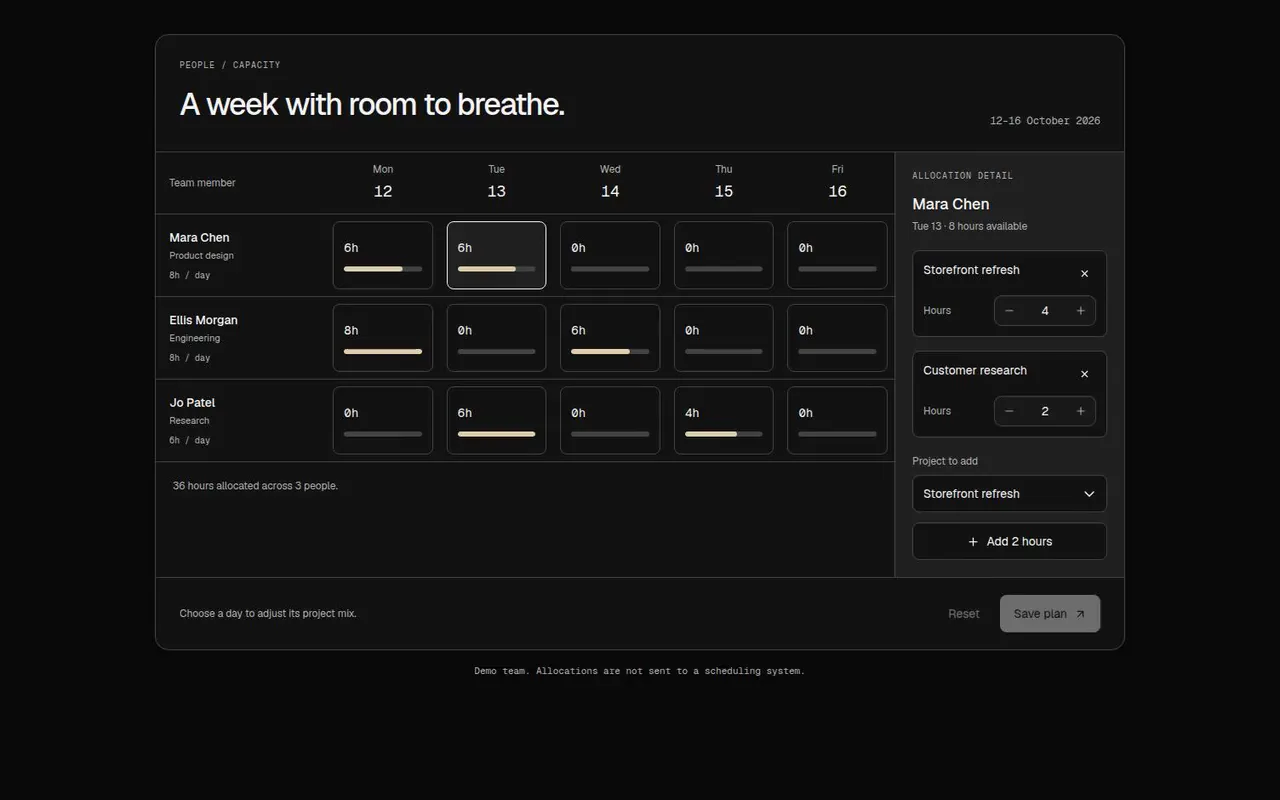
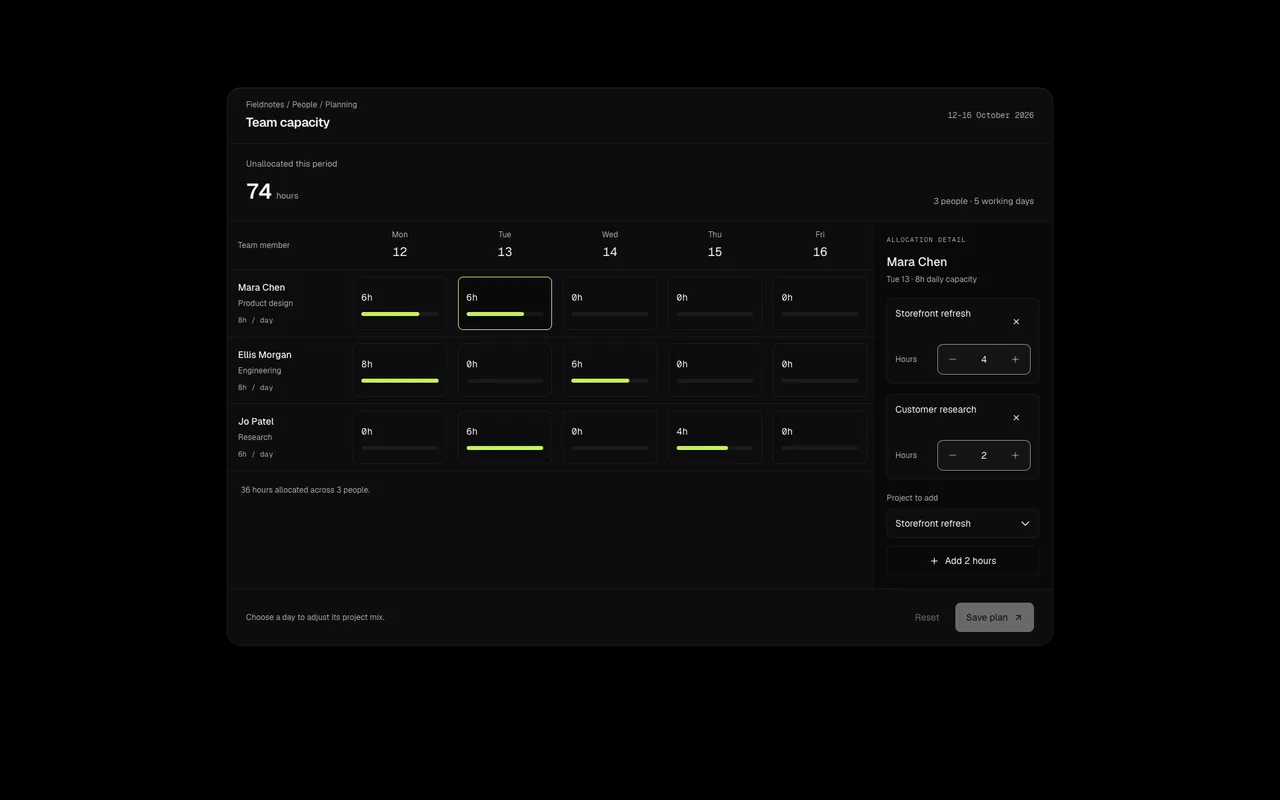
Verify the rebuilt capacity workflow and preview

diff --git a/docs/review/HANDOFF_TASKS.md b/docs/review/HANDOFF_TASKS.md
@@ -255,6 +255,8 @@ and how to know it's done. Pick any of them up independently. Background, briefs
 
 - Task 1: Version History now has a reviewed 4.3s film showing the first revision’s redline, explicit restore confirmation and the settled new Revision 4 with a restored Revision 1 receipt. Complete framing matches the paired opening poster. Maximum source gap is 12ms, changed-source delivery is 80.4ms and moving-frame p95 is 19.1ms, with no stalls and all guards retained. 120 listed films remain.
 
+- Task 7: Capacity Planner is rebuilt around a weekly load ledger and a quarter-hour allocation inspector. Its 35-mount source review and rewritten Next regression cover exact saved snapshots, keyboard stepping, over-capacity checks, retained retry, pending locks, callback mutation, accepted host echoes and retired replacements. Two preserved failures are fixed: the pending calendar remains keyboard-scrollable, and acknowledged decimal formatting leaves a clean baseline. Six widths, 24 state/default accessibility audits, entrance/state captures, three controls, official audit, both demo runners and measured 1,200px replay/poster pass. The first demo cleared its receipt by inspecting after saving; the corrected replay saves last. Strict registry, TypeScript and all 1,063 unit tests pass. Its film joins task 1; 30 components and 12 blocks remain in task 7.
+
 ## Ground rules (read first)
 
 - Two repos. Public: `richawo/Design-components-for-AI-agents` (this one). Pro: `richawo/Design-for-AI`, private, cloned
@@ -272,7 +274,7 @@ and how to know it's done. Pick any of them up independently. Background, briefs
 - Browser checks: `node scripts/check-component.mjs <slug> --base=http://localhost:3100 --no-video --keep-going`
   (screenshots at 1440/768/390 and every control flip; read the screenshots it writes to `test-results/check/<slug>/`).
 
-## 1. Re-record demo videos (120 components)
+## 1. Re-record demo videos (121 components)
 
 Every rebuilt component's poster is current but its catalogue film (`public/previews/<slug>.mp4`) still shows the old
 version. Record them one at a time on an otherwise idle machine; the recorder rejects frame stalls under load.
@@ -291,6 +293,7 @@ slug or per small group). Notes:
 
 Slugs:
 
+`hr-capacity-planner`
 `editor-font-pairing`, `editor-keyframe-track`
 `editor-layer-stack`, `editor-spacing-inspector`, `editor-storyboard-strip`, `editor-version-restore`
 `three-exploded-assembly`, `three-material-inspector`, `agents-budget-guard`, `agents-dependency-board`
@@ -420,16 +423,16 @@ All nine parked rebuilds are shipped in both repos. Their original `_wip/<slug>`
 | finance-budget-variance | Completed 17 October: Next probe, dark/light accessibility, responsive and entrance/state captures, live demo and refreshed poster pass. |
 | finance-cashflow-dashboard | Completed 17 October: weekly balance and in/out bars, movable payments, independent pending saves, invalid-data guards, selected-week list geometry, Next probe/demo, both-theme accessibility, responsive/state/entrance captures and refreshed poster pass. |
 
-## 7. Continue the review (31 components, then 12 blocks)
+## 7. Continue the review (30 components, then 12 blocks)
 
-Same process as the 167 already done: hold each to the first ~100 components' standard. Briefs:
+Same process as the 168 already done: hold each to the first ~100 components' standard. Briefs:
 `docs/review/REVIEW_BRIEF.md`, `docs/review/SUITE_BRIEF.md` for industry components, suite languages in
 `docs/review/suites/`. Work newest first, about four components per batch, and verify each (build, tsc, tests,
 check-component, your own captures of states and mid-entrance frames, a refreshed poster, a rewritten pro-50 probe for
 industry components).
 
 - **Commerce** is reviewed. Keep `block-commerce-workspace` compatible with its rebuilt parts.
-- **Others**: hr-capacity-planner (`suites/hr.md`) and data-query-builder.
+- **Others**: data-query-builder.
 - **Smaller components** (#151–179): chart-waterfall-bridge, content-release-notes, cards-event-ticket,
   chart-slope-comparison, chart-bullet-targets, media-story-deck, devtools-request-waterfall, devtools-json-inspector,
   media-before-after, data-kanban-compact, data-file-explorer, forms-preference-center, date-week-agenda,

diff --git a/docs/review/STATUS.md b/docs/review/STATUS.md
@@ -1,6 +1,6 @@
 # Review status
 
-167 components are rebuilt (or, for a few, polished), verified and committed. For each: whether its demo video
+168 components are rebuilt (or, for a few, polished), verified and committed. For each: whether its demo video
 needs re-recording, whether its poster is current, and the state of its browser regression probe.
 
 - **Video**: `new` means `public/previews/<slug>.mp4` still shows the old version. Re-record serially on a quiet machine:
@@ -144,10 +144,11 @@ See [the handoff checkpoint](HANDOFF_TASKS.md#8-final-release-checks) for revisi
 | `legal-signature-request` | new | current | rewritten, passes |
 | `legal-version-history` | current | current | Rebuilt revision rail and numbered paper redline; 29-mount source review and Next keyboard/LCS/retry/copied-snapshot/pending/focus/revision regression pass. Added-line ink is corrected after a retained 4.26:1 contrast failure. Six widths, 16 accessibility audits, entrance/state captures, three controls, official audit, both demo runners and measured 1,200px replay/poster pass. Strict registry, TypeScript and all 1,063 unit tests pass. Reviewed 4.3s redline/confirmation/new-current film and paired poster are current; all recording guards pass. |
 
-## HR suite (8)
+## HR suite (9)
 
 | Slug | Video | Poster | Probe |
 | --- | --- | --- | --- |
+| `hr-capacity-planner` | new | current | Rebuilt weekly capacity ledger and quarter-hour allocation inspector; 35-mount source review and Next keyboard/exact-snapshot/retry/pending/host-echo/replacement regression pass. Pending calendar inspection remains keyboard-scrollable, and acknowledged decimals become a clean baseline. Six widths, 24 state/default accessibility audits, entrance/state captures, three controls, official audit, both demo runners and measured 1,200px replay/poster pass. The original demo ordering failure is retained; inspection now precedes the final saved receipt. Strict registry, TypeScript and all 1,063 unit tests pass. |
 | `hr-compensation-review` | new | current | rewritten, passes |
 | `hr-employee-onboarding` | new | current | rewritten, passes |
 | `hr-interview-scorecard` | new | current | rewritten, passes on the Next-backed source-fixture runner |
